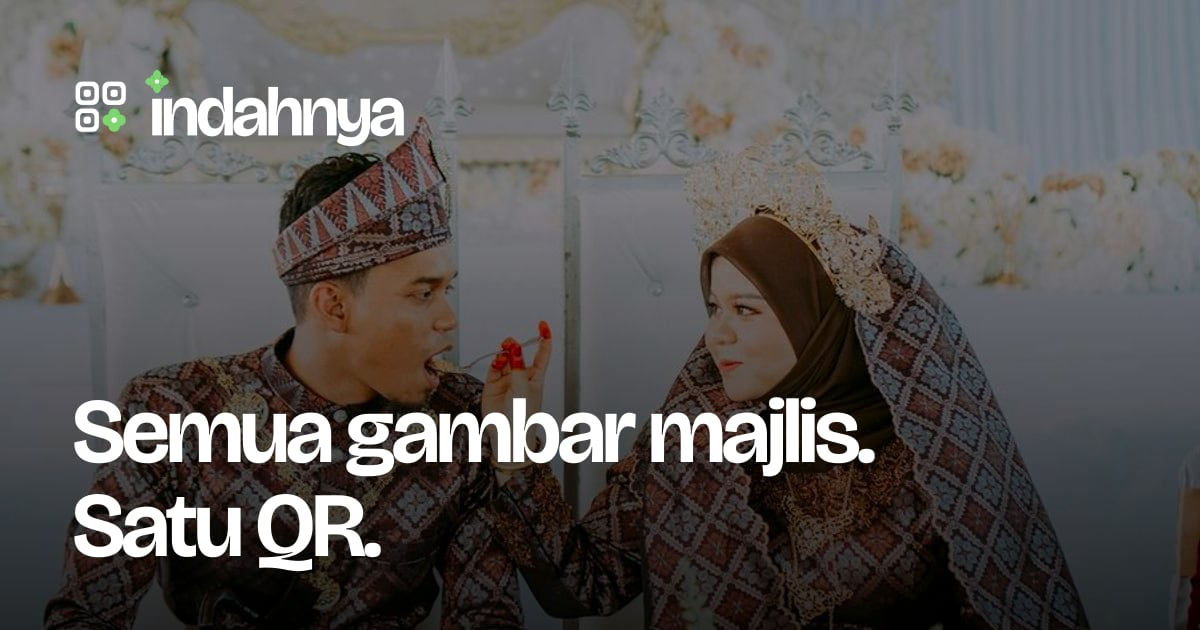
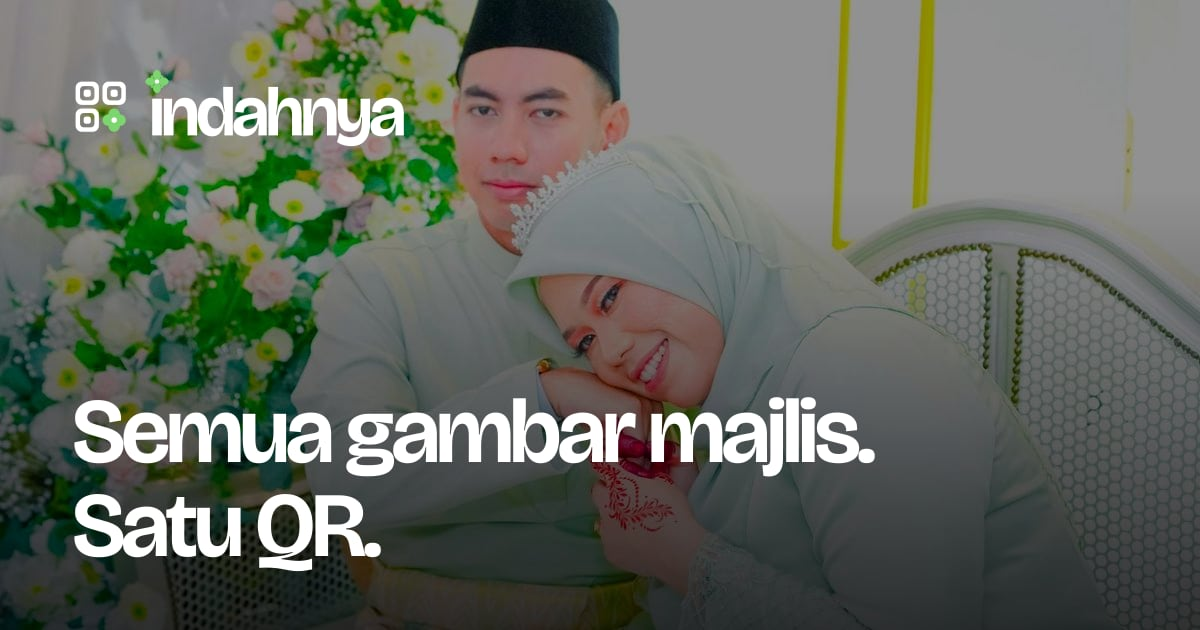
Landing: no suap photos (g08, g20 out everywhere); the dewan TV gets ambient light, a live lower third and a try panel
The sample kad's cover and the share card move to g21 and g10.

diff --git a/app/components/landing/LDewan.vue b/app/components/landing/LDewan.vue
@@ -35,7 +35,7 @@ const phone = ref(false);
 
 /* ── the slideshow ── */
 interface Slide { key: string; src: string; name: string; fresh?: boolean }
-const SAMPLE: Slide[] = ['g21', 'g08', 'g04', 'g11', 'g14', 'g02', 'g18', 'g09', 'g15', 'g01', 'g22', 'g20'].map((id, i) => ({ key: id, src: photo(id, 'l'), name: GUEST_NAMES[(i * 7) % GUEST_NAMES.length]! }));
+const SAMPLE: Slide[] = ['g21', 'g07', 'g04', 'g11', 'g14', 'g02', 'g18', 'g09', 'g15', 'g01', 'g22', 'g10'].map((id, i) => ({ key: id, src: photo(id, 'l'), name: GUEST_NAMES[(i * 7) % GUEST_NAMES.length]! }));
 const slides = ref<Slide[]>([SAMPLE[0]!]);
 let next = 1;
 const current = computed(() => slides.value[slides.value.length - 1]!);
@@ -176,10 +176,14 @@ onBeforeUnmount(() => {
 });
 
 const total = Object.keys(PHOTOS).length;
+/** The lower third's chip: a guest's initials on one of the brand's soft tints. */
+const initials = (n: string) => n.split(/\s+/).filter(w => /^[A-Za-z]/.test(w)).slice(-2).map(w => w[0]!.toUpperCase()).join('') || '•';
+const TINTS = ['#cdeec5', '#ffe9a8', '#f6d3c4', '#d7e3f7', '#e8dcf5'];
+const tint = (n: string) => TINTS[[...n].reduce((a, c) => a + c.charCodeAt(0), 0) % TINTS.length];
 </script>
 
 <template>
-  <section id="live" ref="wrap" class="l-dw relative" :class="reduced ? '' : 'min-[900px]:h-[230vh]'">
+  <section id="live" ref="wrap" class="l-dw relative [overflow-x:clip]" :class="reduced ? '' : 'min-[900px]:h-[230vh]'">
     <div class="dewan-stage l-wrap flex flex-col justify-center py-20" :class="!reduced && 'min-[900px]:sticky min-[900px]:top-0 min-[900px]:h-[100dvh] min-[900px]:py-0'">
       <!-- the line, split by the screen -->
       <h2 class="l-h2 relative z-10 text-center" :class="!reduced && 'min-[900px]:pointer-events-none min-[900px]:absolute min-[900px]:inset-x-0 min-[900px]:top-1/2 min-[900px]:flex min-[900px]:-translate-y-1/2 min-[900px]:justify-between min-[900px]:px-[3vw] min-[900px]:text-[clamp(48px,5.4vw,92px)]'">
@@ -189,51 +193,76 @@ const total = Object.keys(PHOTOS).length;
       <p class="l-lead l-dw2 mx-auto mt-4 text-center" :class="!reduced && 'min-[900px]:hidden'">{{ L.live.body }}</p>
 
       <!-- the screen -->
-      <div class="relative mx-auto mt-10 w-full" :class="!reduced && 'min-[900px]:mt-0'" :style="{ maxWidth: 'min(1180px, calc((100dvh - 230px) * 16 / 9))' }">
-        <div ref="tvEl" class="tv relative aspect-video w-full origin-center overflow-hidden rounded-[14px] bg-black">
-          <TransitionGroup name="slide">
-            <img v-for="s in slides" :key="s.key" :src="s.src" alt="" decoding="async" loading="lazy" class="slide absolute inset-0 size-full object-cover" :class="s.fresh && 'object-contain bg-black'" />
-          </TransitionGroup>
-          <div class="absolute inset-x-0 bottom-0 flex items-end justify-between gap-4 bg-gradient-to-t from-black/80 via-black/30 to-transparent p-[2.4%] pt-[9%]">
-            <div class="min-w-0">
-              <Transition name="fade" mode="out-in">
-                <p :key="current.key" class="flex items-center gap-2 text-[clamp(12px,1.4vw,18px)] font-semibold text-white">
-                  <span v-if="current.fresh" class="rounded-full bg-[#7dd56f] px-2.5 py-0.5 text-[0.78em] font-bold text-[#1a1a1a]">{{ L.live.fresh }}</span>
-                  <Camera class="size-[1.1em] opacity-80" :stroke-width="2" aria-hidden="true" />{{ L.live.by }} {{ current.name }}
-                </p>
-              </Transition>
-              <p class="mt-1 text-[clamp(10px,1vw,14px)] text-white/70">Aina &amp; Hakim · <span class="tabular-nums">{{ total + landed }}</span> {{ L.live.photos }}</p>
+      <div class="relative mx-auto mt-10 w-full" :class="!reduced && 'min-[900px]:mt-0'" :style="{ maxWidth: 'min(1180px, calc((100dvh - 250px) * 16 / 9))' }">
+        <div ref="tvEl" class="relative w-full origin-center will-change-transform">
+          <!-- the room catches the screen's light: the slide itself, blown up and blurred behind it -->
+          <div class="ambient pointer-events-none absolute -inset-[8%] -z-10" aria-hidden="true">
+            <TransitionGroup name="glow">
+              <img v-for="s in slides" :key="s.key" :src="s.src" alt="" class="absolute inset-0 size-full object-cover" />
+            </TransitionGroup>
+          </div>
+          <div class="tv relative aspect-video w-full overflow-hidden rounded-[14px] bg-black">
+            <TransitionGroup name="slide">
+              <img v-for="s in slides" :key="s.key" :src="s.src" alt="" decoding="async" loading="lazy" class="slide absolute inset-0 size-full object-cover" :class="s.fresh && 'object-contain bg-black'" />
+            </TransitionGroup>
+
+            <!-- top: what a guest sees on the dewan screen -->
+            <div class="absolute inset-x-0 top-0 flex items-center justify-between bg-gradient-to-b from-black/45 to-transparent p-[2.2%] pb-[5%] text-[clamp(9px,1vw,13px)] font-semibold text-white">
+              <span class="flex items-center gap-1.5 rounded-full bg-black/35 px-2.5 py-1 backdrop-blur-sm"><span class="live-dot size-[0.6em] rounded-full bg-[#7dd56f]" />LIVE</span>
+              <span class="rounded-full bg-black/35 px-2.5 py-1 tracking-[.02em] backdrop-blur-sm">#AinaHakim</span>
             </div>
-            <div v-if="!phone" class="flex shrink-0 items-end gap-3">
-              <p class="hidden text-right text-[clamp(10px,1vw,14px)] font-semibold leading-tight text-white sm:block">{{ preview ? L.live.tvScanPreview : L.live.tvScan }}</p>
-              <div class="relative w-[clamp(64px,9.5%,112px)] rounded-[8px] bg-white p-1.5">
+
+            <!-- bottom: who sent it, and the way in -->
+            <div class="absolute inset-x-0 bottom-0 flex items-end justify-between gap-4 bg-gradient-to-t from-black/75 via-black/25 to-transparent p-[2.4%] pt-[10%]">
+              <Transition name="fade" mode="out-in">
+                <div :key="current.key" class="flex min-w-0 items-center gap-[0.7em] text-[clamp(11px,1.35vw,18px)]">
+                  <span class="grid size-[2.4em] shrink-0 place-items-center rounded-full text-[0.8em] font-bold text-[#1a1a1a] ring-2 ring-white/70" :style="{ background: tint(current.name) }">{{ initials(current.name) }}</span>
+                  <div class="min-w-0">
+                    <p class="flex items-center gap-2 font-semibold leading-tight text-white">
+                      <span class="truncate">{{ L.live.by }} {{ current.name }}</span>
+                      <span v-if="current.fresh" class="shrink-0 rounded-full bg-[#7dd56f] px-2 py-px text-[0.72em] font-bold text-[#1a1a1a]">{{ L.live.fresh }}</span>
+                    </p>
+                    <p class="mt-0.5 text-[0.74em] text-white/70">Aina &amp; Hakim · <span class="tabular-nums">{{ total + landed }}</span> {{ L.live.photos }}</p>
+                  </div>
+                </div>
+              </Transition>
+              <div v-if="!phone" class="relative w-[clamp(70px,10%,118px)] shrink-0 rounded-[10px] bg-white p-[5px] pb-1 shadow-[0_10px_30px_-10px_rgba(0,0,0,.6)]">
                 <img v-if="pairQr" :src="pairQr" :alt="preview ? L.live.tvScanPreview : L.live.tvScan" class="block w-full" />
                 <div v-else class="aspect-square w-full animate-pulse rounded-[4px] bg-[#ebe8e5]" />
+                <p class="mt-[3px] text-center text-[clamp(7px,0.72vw,10px)] font-bold uppercase leading-tight tracking-[.04em] text-[#1a1a1a]">{{ preview ? L.live.tvScanPreview : L.live.tvScan }}</p>
                 <div ref="burstRoot" class="pointer-events-none absolute left-1/2 top-1/2" aria-hidden="true" />
               </div>
+              <div v-else ref="burstRoot" class="pointer-events-none absolute bottom-1/2 right-1/2" aria-hidden="true" />
             </div>
-            <div v-else ref="burstRoot" class="pointer-events-none absolute bottom-1/2 right-1/2" aria-hidden="true" />
+            <!-- time to the next photo -->
+            <div class="absolute inset-x-0 bottom-0 h-[3px] bg-white/10" aria-hidden="true">
+              <div :key="current.key" class="progress h-full origin-left bg-[#7dd56f]" :style="{ animationDuration: `${current.fresh ? 8000 : 4200}ms`, animationPlayState: running ? 'running' : 'paused' }" />
+            </div>
           </div>
         </div>
       </div>
 
       <!-- the try -->
-      <div ref="tryBar" class="mx-auto mt-6 flex w-full max-w-[1180px] flex-col items-start gap-4 md:flex-row md:items-center md:justify-between md:gap-10">
-        <div class="max-w-[640px]">
-          <p class="text-[18px] font-semibold">{{ L.live.tryTitle }}</p>
-          <p class="l-dw2 mt-1 text-[15px] leading-[1.55]">{{ preview ? L.live.tryBodyPreview : phone ? L.live.tryBodyPhone : L.live.tryBody }}</p>
-          <p v-if="upError" class="mt-2 text-[14px] font-medium text-[#fda29b]" role="alert">{{ upError }}</p>
+      <div ref="tryBar" class="try mx-auto mt-8 flex w-full max-w-[1180px] flex-col items-start gap-5 rounded-[24px] p-5 md:flex-row md:items-center md:justify-between md:gap-10 md:p-6">
+        <div class="flex max-w-[680px] items-start gap-4">
+          <span class="grid size-11 shrink-0 place-items-center rounded-full bg-[#7dd56f] text-[#1a1a1a]" aria-hidden="true">
+            <Check v-if="landed && (preview || up.done.value)" class="size-5" :stroke-width="2.5" /><ImagePlus v-else class="size-5" :stroke-width="2" />
+          </span>
+          <div>
+            <p class="text-[18px] font-semibold">{{ landed && (preview || up.done.value) ? L.live.tryDone : L.live.tryTitle }}</p>
+            <p class="l-dw2 mt-1 text-[15px] leading-[1.55]">{{ preview ? L.live.tryBodyPreview : phone ? L.live.tryBodyPhone : L.live.tryBody }}</p>
+            <p v-if="upError" class="mt-2 text-[14px] font-medium text-[#fda29b]" role="alert">{{ upError }}</p>
+          </div>
         </div>
-        <div class="flex shrink-0 flex-wrap items-center gap-3">
-          <button v-if="phone" type="button" class="l-btn l-btn-go" :disabled="sending" @click="pick">
+        <div class="flex shrink-0 flex-wrap items-center gap-3 max-md:w-full">
+          <button v-if="phone || preview" type="button" class="l-btn l-btn-go max-md:w-full" :disabled="sending" @click="pick">
             <Loader2 v-if="sending" class="size-[18px] animate-spin" :stroke-width="2" aria-hidden="true" />
-            <Check v-else-if="up.done.value" class="size-[18px]" :stroke-width="2.5" aria-hidden="true" />
             <ImagePlus v-else class="size-[18px]" :stroke-width="2" aria-hidden="true" />
-            {{ sending ? L.live.trySending : up.done.value ? L.live.tryMore : L.live.tryButton }}
+            {{ sending ? L.live.trySending : landed ? L.live.tryMore : phone ? L.live.tryButton : L.live.tryDeskPreview }}
           </button>
           <button v-else type="button" class="l-btn l-btn-ghost-night l-btn-sm" :disabled="sending" @click="pick">
             <Loader2 v-if="sending" class="size-4 animate-spin" :stroke-width="2" aria-hidden="true" /><Monitor v-else class="size-4" :stroke-width="2" aria-hidden="true" />
-            {{ sending ? L.live.trySending : preview ? L.live.tryDeskPreview : L.live.tryDesk }}
+            {{ sending ? L.live.trySending : L.live.tryDesk }}
           </button>
           <input ref="picker" type="file" accept="image/*" multiple class="sr-only" tabindex="-1" aria-hidden="true" @change="onPick">
         </div>
@@ -243,7 +272,15 @@ const total = Object.keys(PHOTOS).length;
 </template>
 
 <style scoped>
-.tv { box-shadow: 0 0 0 1px rgb(255 255 255 / .08), 0 0 0 10px #161917, 0 0 0 11px rgb(255 255 255 / .06), 0 50px 90px -40px rgb(0 0 0 / .9); will-change: transform; }
+.tv { box-shadow: 0 0 0 1px rgb(255 255 255 / .1), 0 0 0 9px #121413, 0 0 0 10px rgb(255 255 255 / .07), 0 50px 90px -40px rgb(0 0 0 / .9); }
+.ambient { filter: blur(70px) saturate(1.5); opacity: .5; transform: translateZ(0); }
+.glow-enter-active, .glow-leave-active { transition: opacity 1.4s ease; }
+.glow-enter-from, .glow-leave-to { opacity: 0; }
+.live-dot { box-shadow: 0 0 0 0 rgb(125 213 111 / .7); animation: live 1.8s ease-out infinite; }
+@keyframes live { 70% { box-shadow: 0 0 0 .5em rgb(125 213 111 / 0); } 100% { box-shadow: 0 0 0 0 rgb(125 213 111 / 0); } }
+.progress { animation: progress linear both; }
+@keyframes progress { from { transform: scaleX(0); } to { transform: scaleX(1); } }
+.try { background: rgb(255 255 255 / .05); box-shadow: inset 0 0 0 1px rgb(255 255 255 / .09); }
 .slide { animation: kb 9s ease-out both; }
 @keyframes kb { from { transform: scale(1.06); } to { transform: scale(1); } }
 .slide-enter-active { transition: opacity 1.1s ease; }
@@ -257,5 +294,5 @@ const total = Object.keys(PHOTOS).length;
   background: radial-gradient(circle at 50% 18%, var(--c) 34%, transparent 35%), radial-gradient(circle at 50% 82%, var(--c) 34%, transparent 35%),
     radial-gradient(circle at 18% 50%, var(--c) 34%, transparent 35%), radial-gradient(circle at 82% 50%, var(--c) 34%, transparent 35%);
 }
-@media (prefers-reduced-motion: reduce) { .slide { animation: none; } }
+@media (prefers-reduced-motion: reduce) { .slide, .live-dot, .progress { animation: none; } }
 </style>

diff --git a/app/components/landing/LHero.vue b/app/components/landing/LHero.vue
@@ -39,11 +39,11 @@ const reduced = ref(false);
 /* ── the floating polaroids around the card: the photos that are coming ── */
 const FLOAT = [
   { id: 'g04', dx: -1.02, dy: 0.5, w: 0.5, r: -8, d: 1.3 },
-  { id: 'g08', dx: 0.98, dy: -0.72, w: 0.58, r: 6, d: 0.8 },
+  { id: 'g03', dx: 0.98, dy: -0.72, w: 0.58, r: 6, d: 0.8 },
   { id: 'g21', dx: 1.12, dy: 0.36, w: 0.5, r: 9, d: 1.5 },
   { id: 'g11', dx: 0.42, dy: 1.04, w: 0.56, r: -4, d: 1 },
   { id: 'g02', dx: -1.3, dy: -0.32, w: 0.4, r: -6, d: 0.55, far: true },
-  { id: 'g20', dx: -0.46, dy: 1.1, w: 0.46, r: 5, d: 0.7 },
+  { id: 'g10', dx: -0.46, dy: 1.1, w: 0.46, r: 5, d: 0.7 },
   { id: 'g14', dx: 0.16, dy: -1.12, w: 0.38, r: -3, d: 0.5, far: true },
   { id: 'g15', dx: 1.5, dy: -0.18, w: 0.36, r: -7, d: 0.45, far: true },
   { id: 'g22', dx: -1.66, dy: 0.74, w: 0.38, r: 10, d: 0.5, far: true },
@@ -51,8 +51,8 @@ const FLOAT = [
 ];
 /* ── the live feed under the buttons, and the card's counter: the gallery filling while you read ── */
 const FEED: { name: string; ids: string[] }[] = [
-  { name: 'Makcik Ros', ids: ['g04', 'g20', 'g11'] }, { name: 'Uncle Lim', ids: ['g14'] }, { name: 'Team Office', ids: ['g09', 'g02', 'g18', 'g15', 'g01'] },
-  { name: 'Kak Yati', ids: ['g21', 'g15'] }, { name: 'Abang Faiz', ids: ['g08', 'g03', 'g22', 'g07'] }, { name: 'Nadia & Irfan', ids: ['g10', 'g17'] }, { name: 'Hana', ids: ['g18'] },
+  { name: 'Makcik Ros', ids: ['g04', 'g13', 'g11'] }, { name: 'Uncle Lim', ids: ['g14'] }, { name: 'Team Office', ids: ['g09', 'g02', 'g18', 'g15', 'g01'] },
+  { name: 'Kak Yati', ids: ['g21', 'g15'] }, { name: 'Abang Faiz', ids: ['g23', 'g03', 'g22', 'g07'] }, { name: 'Nadia & Irfan', ids: ['g10', 'g17'] }, { name: 'Hana', ids: ['g18'] },
 ];
 let feedSeq = 0;
 const feed = ref(FEED.slice(0, 3).map(f => ({ ...f, key: feedSeq++ })).reverse());
@@ -121,7 +121,7 @@ function buildWall() {
   const cols = W >= 1280 ? 6 : W >= 900 ? 5 : W >= 600 ? 4 : 3;
   const gap = W >= 900 ? 10 : 6;
   const tw = (W - gap * (cols + 1)) / cols;
-  const order = ['g08', 'g04', 'g18', 'g11', 'g21', 'g15', 'g09', 'g02', 'g01', 'g20', 'g17', 'g03', 'g14', 'g22', 'g10', 'g07'];
+  const order = ['g23', 'g04', 'g18', 'g11', 'g21', 'g15', 'g09', 'g02', 'g01', 'g13', 'g17', 'g03', 'g14', 'g22', 'g10', 'g07'];
   const out: Tile[] = [];
   let n = 0;
   const near = (c: number, y0: number, y1: number) => out.filter(t => Math.abs(Math.round((t.x - gap) / (tw + gap)) - c) <= 1 && t.y < y1 + tw && t.y + t.h > y0 - tw).map(t => t.id);

diff --git a/scripts/seed-demo.ts b/scripts/seed-demo.ts
@@ -42,7 +42,7 @@ async function wipe(Bucket: string, Prefix: string) {
   if (keys.length) await s3.send(new DeleteObjectsCommand({ Bucket, Delete: { Objects: keys, Quiet: true } }));
 }
 
-const PHOTOS = ['g08', 'g04', 'g18', 'g11', 'g21', 'g15', 'g09', 'g20', 'g13', 'g01', 'g02', 'g17', 'g03', 'g14', 'g22', 'g10', 'g07', 'g23'];
+const PHOTOS = ['g04', 'g18', 'g11', 'g21', 'g15', 'g09', 'g13', 'g01', 'g02', 'g17', 'g03', 'g14', 'g22', 'g10', 'g07', 'g23'];
 const NAMES = ['Makcik Ros', 'Aiman', 'Team Office', 'Kak Yati', 'Pak Long', 'Nadia & Irfan', 'Abang Faiz', 'Cousins', 'Uncle Lim', 'Syafiq', 'Auntie Mei', 'Hana'];
 
 const db = useDb();
@@ -157,7 +157,7 @@ const kadAsset = async (file: string) => {
   await put(PUBLIC, key, await sharp(readFileSync(`public/landing/${file}.jpg`)).rotate().resize({ width: 1600, height: 1600, fit: 'inside', withoutEnlargement: true }).webp({ quality: 82 }).toBuffer(), 'image/webp');
   return key;
 };
-const coverKey = await kadAsset('g08');
+const coverKey = await kadAsset('g21');
 const photoKeys = await Promise.all(['g04', 'g21', 'g02', 'g13'].map(kadAsset));
 const kadFields = KadFields.parse({
   hosts: 'Ahmad bin Ismail\n&\nRohana binti Musa',
@@ -173,7 +173,7 @@ const kadFields = KadFields.parse({
 const [fresh] = await db.select().from(events).where(eq(events.id, ev.id));
 const publicBase = v('S3_PUBLIC_BASE') || 'http://localhost:3180/media';
 const view = composeKad(fresh!, 'garden', kadFields, kadDefaults(fresh!), k => `${publicBase}/${k}`, true);
-const og = await renderKadOg(view, readFileSync('public/landing/g08.jpg'), async f => readFileSync(`server/assets/fonts/${f}`));
+const og = await renderKadOg(view, readFileSync('public/landing/g21.jpg'), async f => readFileSync(`server/assets/fonts/${f}`));
 const ogKey = `${kp}og-${Date.now().toString(36)}.jpg`;
 await put(PUBLIC, ogKey, og, 'image/jpeg');
 await db.insert(kad).values({ eventId: ev.id, template: 'garden', fields: kadFields, ogKey, updatedAt: new Date() })

diff --git a/app/composables/useLanding.ts b/app/composables/useLanding.ts
@@ -239,7 +239,7 @@ export type LandingLang = keyof typeof LANDING;
 export type LandingCopy = (typeof LANDING)[LandingLang];
 
 /** The landing's frames: Unsplash-licensed, Malaysian where we could find them. [width, height] of the 900px masters. */
-export const PHOTOS: Record<string, [number, number]> = { g01: [900, 506], g02: [900, 1352], g03: [900, 600], g04: [900, 1352], g07: [900, 600], g08: [900, 600], g09: [900, 1350], g10: [900, 600], g11: [900, 1350], g13: [900, 600], g14: [900, 1401], g15: [900, 600], g17: [900, 1350], g18: [900, 1350], g20: [900, 600], g21: [900, 1169], g22: [900, 1350], g23: [900, 600] };
+export const PHOTOS: Record<string, [number, number]> = { g01: [900, 506], g02: [900, 1352], g03: [900, 600], g04: [900, 1352], g07: [900, 600], g09: [900, 1350], g10: [900, 600], g11: [900, 1350], g13: [900, 600], g14: [900, 1401], g15: [900, 600], g17: [900, 1350], g18: [900, 1350], g21: [900, 1169], g22: [900, 1350], g23: [900, 600] };
 export const GUEST_NAMES = ['Makcik Ros', 'Aiman', 'Team Office', 'Kak Yati', 'Pak Long', 'Nadia & Irfan', 'Abang Faiz', 'Cousins', 'Uncle Lim', 'Syafiq', 'Auntie Mei', 'Hana'];
 /** Sample photos (scripts/landing-photos.json, built by scripts/build-photos.mjs): 's' 560px for tiles, 'l' 1600px for big frames. */
 export const photo = (id: string, size: 's' | 'l' = 's') => `/landing/${size}/${id}.webp`;

diff --git a/app/components/landing/LHow.vue b/app/components/landing/LHow.vue
@@ -45,7 +45,7 @@ onMounted(() => {
   onBeforeUnmount(() => { io.disconnect(); clearInterval(tick); });
 });
 
-const picks = ['g18', 'g11', 'g20', 'g04', 'g03', 'g15', 'g21', 'g02', 'g14'];
+const picks = ['g18', 'g11', 'g10', 'g04', 'g03', 'g15', 'g21', 'g02', 'g14'];
 const galleryIds = ['g21', 'g04', 'g02', 'g11', 'g18', 'g09', 'g15', 'g01', 'g14', 'g07'];
 </script>
 
@@ -87,7 +87,7 @@ const galleryIds = ['g21', 'g04', 'g02', 'g11', 'g18', 'g09', 'g15', 'g01', 'g14
               />
               <div class="l-phone relative z-10 aspect-[9/19] h-[88%] sm:ml-[30%]">
                 <div class="l-phone-screen bg-[#0b0b0b]">
-                  <img :src="photo('g20')" alt="" class="absolute inset-0 size-full scale-110 object-cover opacity-60 blur-[6px]" />
+                  <img :src="photo('g10')" alt="" class="absolute inset-0 size-full scale-110 object-cover opacity-60 blur-[6px]" />
                   <QrStand
                     class="absolute left-1/2 top-[42%] w-[64%] -translate-x-1/2 -translate-y-1/2 rotate-[-4deg] overflow-hidden rounded-[6px]"
                     :url="url" link="indahnya.my/aina-hakim" template="garden" :names="{ a: 'Aina', b: 'Hakim' }" title="Walimatulurus" date="15.08.2026" :locale="L.nav.lang === 'EN' ? 'ms' : 'en'"

diff --git a/app/components/landing/LHost.vue b/app/components/landing/LHost.vue
@@ -84,7 +84,7 @@ const pending = ['g18', 'g03', 'g11'];
               <!-- the zip -->
               <div v-else-if="i === 1" class="mx-auto max-w-[520px]">
                 <div class="relative h-[200px]">
-                  <img v-for="(id, k) in ['g08', 'g04', 'g21', 'g11', 'g02', 'g14']" :key="id" :src="photo(id)" alt="" class="zip-fly absolute left-1/2 top-1/2 w-[120px] rounded-[10px] shadow-lg" loading="lazy" :style="{ '--k': k, '--x': `${(k - 2.5) * 70}px`, '--r': `${(k - 2.5) * 6}deg` }" />
+                  <img v-for="(id, k) in ['g10', 'g04', 'g21', 'g11', 'g02', 'g14']" :key="id" :src="photo(id)" alt="" class="zip-fly absolute left-1/2 top-1/2 w-[120px] rounded-[10px] shadow-lg" loading="lazy" :style="{ '--k': k, '--x': `${(k - 2.5) * 70}px`, '--r': `${(k - 2.5) * 6}deg` }" />
                 </div>
                 <div class="relative rounded-[20px] bg-white p-4 shadow-[0_20px_40px_-24px_rgba(39,98,42,.4)]">
                   <div class="flex items-center gap-3">
